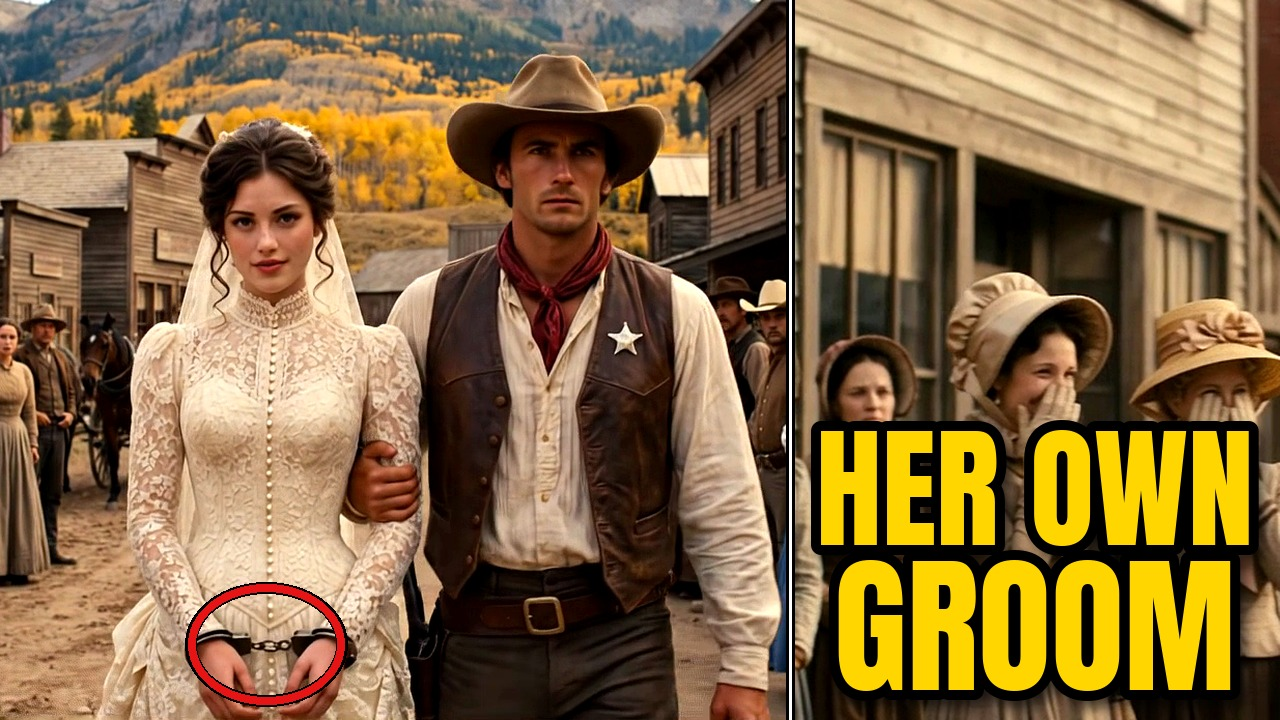
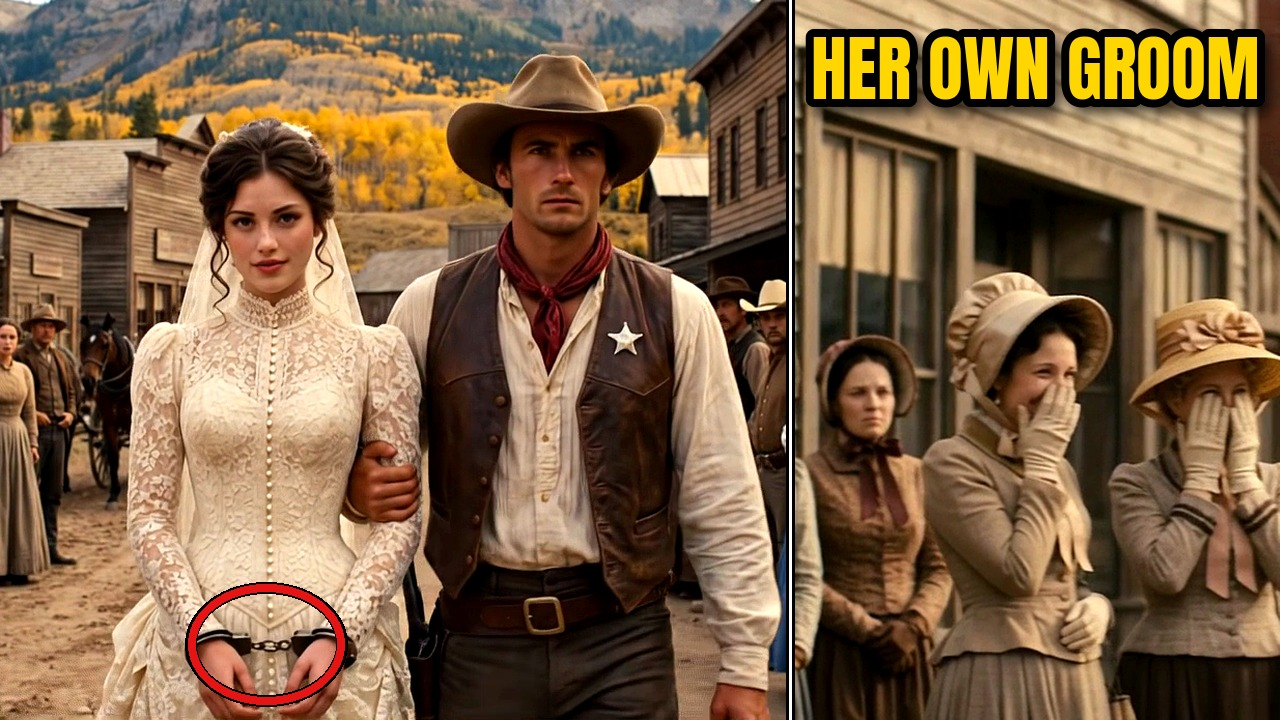
film2 thumbs: text of A smaller at top, B top-right over mountains
Claude-Session: https://claude.ai/code/session_01F3ht4z7sxFyGByXL5AFRbd

Changed region(s): [[0.625, 0.5806, 1.0, 1.0], [0.625, 0.0306, 1.0, 0.1833]]

diff --git a/montage/western_stagecoach_bride/thumbs.py b/montage/western_stagecoach_bride/thumbs.py
@@ -88,8 +88,7 @@ def thumb_a():
     for r, wdt, col in ((62, 12, (0, 0, 0)), (60, 8, (230, 20, 20))):
         d.ellipse((cx - r * 1.3, cy - r, cx + r * 1.3, cy + r), outline=col, width=wdt)
     mid = LW + (W - LW) // 2
-    text(im, "HER OWN", (mid, H - 175), 132, anchor="ms", max_w=W - LW - 30)
-    text(im, "GROOM", (mid, H - 30), 150, anchor="ms", max_w=W - LW - 30)
+    text(im, "HER OWN GROOM", (mid, 14), 92, anchor="ma", max_w=W - LW - 24, stroke=8)
     return im
 
 
@@ -98,7 +97,7 @@ def thumb_b():
     jump = grade(frame("C04", 1.0), bright=1.05, color=1.3)
     im = panel(jump, (360, 10, 900, 506), (W, H))
     im = vignette(im, 0.22)
-    text(im, "SHE JUMPED", (40, H - 30), 170, anchor="ls")
+    text(im, "SHE JUMPED", (W - 36, 24), 150, anchor="ra")
     return im
 
 
